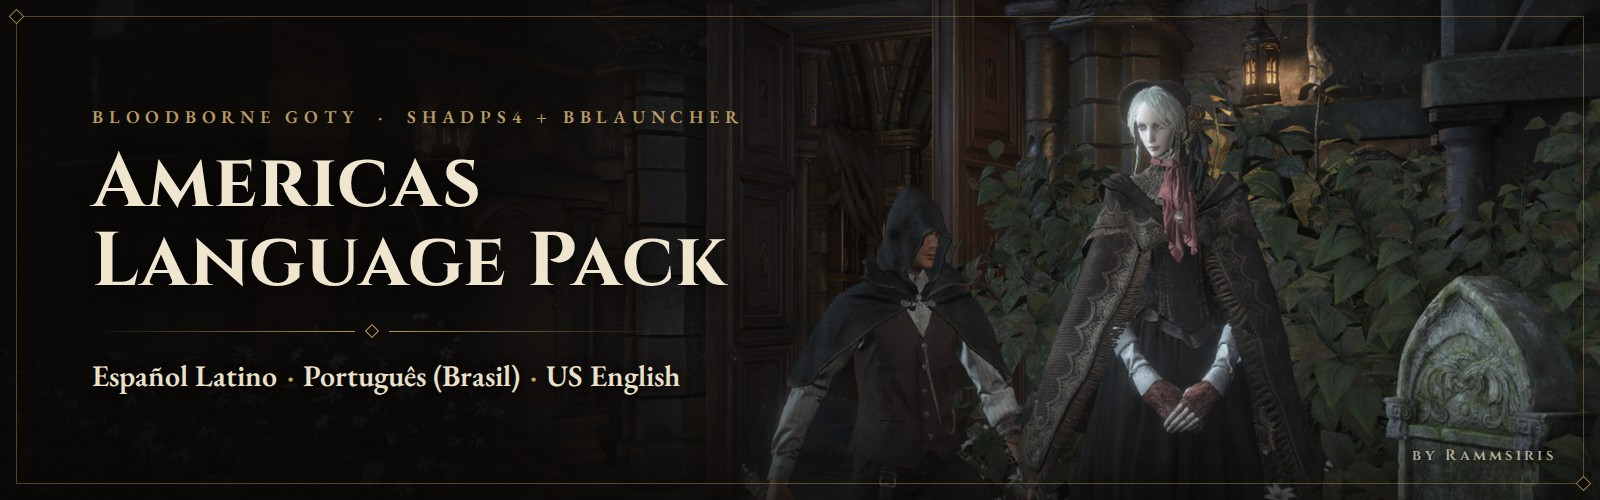
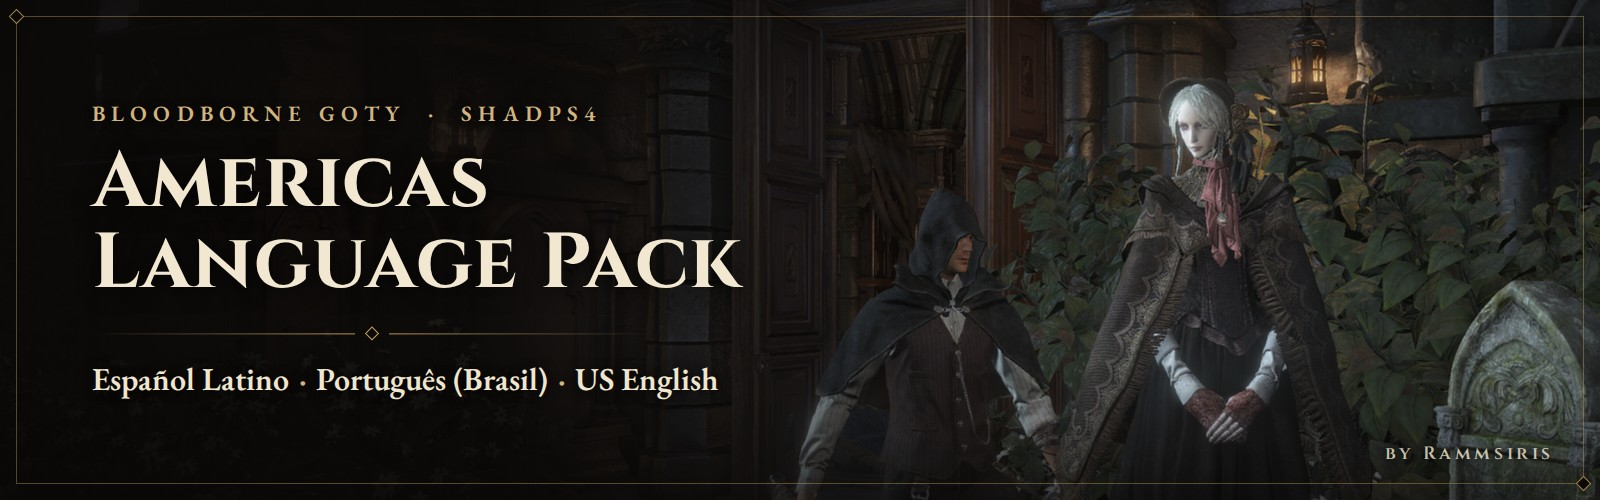
Add files via upload

diff --git a/README.md b/README.md
@@ -3,7 +3,7 @@
 </p>
 
 <p align="center">
-  <b>Bloodborne Game of the Year Edition</b> (EU, CUSA03173) on <b>shadPS4 + BBLauncher</b><br>
+  <b>Bloodborne GOTY</b> (EU, CUSA03173) &nbsp;·&nbsp; <b>shadPS4 + BBLauncher</b><br>
   Play in your language and keep online features: no <i>Unlock Game Region</i> patch needed.<br>
   Juega en tu idioma sin perder el online: no necesitas el parche <i>Unlock Game Region</i>.<br>
   Jogue com legendas e dublagem em português do Brasil sem perder o online.
@@ -17,161 +17,144 @@
   <a href="#english">English</a> &nbsp;·&nbsp; <a href="#español">Español</a> &nbsp;·&nbsp; <a href="../../releases">All versions / Todas las versiones</a> &nbsp;·&nbsp; <a href="https://www.nexusmods.com/bloodborne/mods/578">Nexus Mods</a>
 </p>
 
-<table align="center">
-  <tr>
-    <td align="center"><b>Español (América Latina)</b><br><sub>text and voices · texto y voces</sub></td>
-    <td align="center"><b>Português (Brasil)</b><br><sub>text and voices · texto e vozes</sub></td>
-  </tr>
+<p align="center">
+  <img src="media/showcase.jpg" alt="The game's Language menu set to Latin American Spanish, Brazilian Portuguese and US English, and a message from the online server in Latin American Spanish" width="100%">
+</p>
+
+<details>
+<summary>📸 <b>Full screenshots</b> · Capturas completas</summary>
+<br>
+<table>
   <tr>
     <td><img src="media/menu-es-latam.jpg" alt="Language menu in Latin American Spanish" width="380"></td>
     <td><img src="media/menu-pt-br.jpg" alt="Language menu in Brazilian Portuguese" width="380"></td>
-  </tr>
-  <tr>
-    <td align="center"><b>English (United States)</b><br><sub>text, with the UK English voices · texto, con las voces en inglés UK</sub></td>
-    <td align="center"><b>Online still works</b><br><sub>el online sigue funcionando</sub></td>
   </tr>
   <tr>
     <td><img src="media/menu-en-us.jpg" alt="Language menu in US English" width="380"></td>
     <td><img src="media/online-es-latam.jpg" alt="A message from another player, from the online server, in Latin American Spanish" width="380"></td>
   </tr>
 </table>
+</details>
 
 ## English
 
-The European Game of the Year Edition already contains the languages of the Americas, but its Language menu only lists the European ones. The usual fix, the **Unlock Game Region** patch, can't be used with online play (the Hunters Dream server: messages, bloodstains, specters).
+The European GOTY already has the languages of the Americas, but its Language menu only shows the European ones. This pack adds them to the game's own menu **without touching the region**, so online play keeps working.
 
-This pack leaves the region alone and adds them to the game's own Language menu:
+- 🌐 **Online keeps working:** no *Unlock Game Region* patch, so messages, bloodstains and specters stay on.
+- 🎙 **Text and voices** in Spanish (Latin America) and Portuguese (Brazil), **text** in US English.
+- 🎮 **Real options in the Language menu,** with the game's official names. English (UK) and the other European languages stay.
+- 📦 **No game files in the download:** the installer builds the mod from your own copy, and your game folder is never modified.
 
-| Language added | Text | Voices | Takes the place of |
-|---|:---:|:---:|---|
-| **Spanish (Latin America)** | yes | yes | Italian |
-| **Portuguese (Brazil)** | yes | yes | German |
-| **English (United States)** | yes | - | Danish |
-
-### Why this one
-
-- **Online keeps working:** the region isn't touched, so *Unlock Game Region* stays OFF.
-- **Real entries in the Language menu,** with the game's official names. Switch any time in OPTIONS > System > Language.
-- English (UK), French, Spanish (Spain), Portuguese (Portugal) and the other European languages stay available.
-- **No game files in the download:** a small installer builds the mod from your own copy in a few minutes.
-- Your game folder is never modified. Turn the mod on and off from BBLauncher's Mod Manager.
-- It also fixes two small mistakes in the official language names ("Pulir" instead of "Polaco" in Latin American Spanish, and "Brasil" in English).
-
-### Requirements
-
-- Windows 10 or 11
-- Bloodborne GOTY (EU, CUSA03173) dumped from your own copy, with update 1.09, as a regular folder (not .zar)
-- shadPS4 and BBLauncher (it also works with shadPS4 alone, see README.txt)
+**Requirements:** Windows 10/11 · Bloodborne GOTY EU (CUSA03173) v1.09 dumped from your own copy, as a folder (not .zar) · shadPS4 + BBLauncher
 
 ### Install
 
-1. Click **Download** above (or open [Releases](../../releases) and download `Americas-Language-Pack.zip`).
-2. Extract the zip and drag the **Americas Language Pack v1.0** folder into your BBLauncher folder (the one with BB_Launcher.exe), not into its Mods folder.
-3. Open that folder and double-click **INSTALL - Americas Language Pack.bat**. It finds your game by itself. Wait until it says DONE.
-4. BBLauncher > Mod Manager > under Inactive Mods select **Americas Language Pack** > Activate Mod.
-5. In the game: OPTIONS > System > Language > choose your language in Text and in Voice.
+1. Click **Download** above and extract the zip.
+2. Drag the **Americas Language Pack v1.0** folder into your BBLauncher folder (the one with BB_Launcher.exe), not into Mods.
+3. Open it and double-click **INSTALL - Americas Language Pack.bat** (keep the .ps1 next to it). Wait until it says **DONE** (or LISTO).
+4. BBLauncher > Mod Manager > Inactive Mods > **Americas Language Pack** > Activate Mod.
+5. In the game: OPTIONS > System > Language > pick your language in Text and in Voice.
 
 > [!IMPORTANT]
 > For online play keep the **Unlock Game Region** and **Disable HTTP Requests** patches OFF.
 
-> [!TIP]
-> Only double-click the .bat. The .ps1 next to it is the installer itself, so keep them together. When it says DONE you can delete the installer folder: the mod doesn't need it.
+<details>
+<summary><b>Uninstall</b></summary>
+<br>
 
-### Uninstall
+In the game, set Text and Voice back to "Default". Then BBLauncher > Mod Manager > Active Mods > Americas Language Pack > Deactivate Mod, and delete its folder from BBLauncher's Mods folder. Step by step in README.txt, section 8.
 
-In the game, set Text and Voice back to "Default". Then BBLauncher > Mod Manager > Active Mods > Americas Language Pack > Deactivate Mod, and delete its folder from BBLauncher's Mods folder. Step by step in README.txt (section 8).
+</details>
 
-### Compatibility
+<details>
+<summary><b>Compatibility and known limitations</b></summary>
+<br>
 
-Works with patches and mods that don't change the game's text, font or voice files (60 FPS, resolution, graphics...). It doesn't work together with other language or text mods: if BBLauncher shows "Mod conflict found", deactivate the other mod first.
-
-### Known limitations
-
-- Italian, German and Danish are replaced while the mod is active.
+- Works with patches and mods that don't change the game's text, font or voice files (60 FPS, resolution, graphics...).
+- It doesn't work with other language or text mods: if BBLauncher shows "Mod conflict found", deactivate the other mod first.
+- While the mod is active, Spanish (Latin America) takes the place of Italian, Portuguese (Brazil) of German, and English (United States) of Danish.
 - US English is text only: for Voice keep English (United Kingdom), it's the same dub.
 - "Default" doesn't pick the new languages: choose them yourself in Text and Voice.
-- The installer needs the game as a regular folder, not a .zar archive.
+- It also fixes two small mistakes in the official language names ("Pulir" instead of "Polaco" in Latin American Spanish, and "Brasil" in English).
 
-### Safety and antivirus
+</details>
+
+<details>
+<summary><b>Safety and antivirus</b></summary>
+<br>
 
 - **Official pages:** this GitHub page and the [Nexus Mods page](https://www.nexusmods.com/bloodborne/mods/578). Both have the same file. Don't download it from links posted by other people.
 - Every release lists the zip's SHA-256 and its VirusTotal scan.
-- The installer is plain-text PowerShell that anyone can read ([read it here](Americas%20Language%20Pack/Americas_Language_Pack.ps1)). It only reads your game files and BBLauncher's settings, and writes the mod folder, with no internet connections and no changes to Windows.
+- The installer is plain-text PowerShell that anyone can read ([read it here](Americas%20Language%20Pack/Americas_Language_Pack.ps1)). It only reads your game files and BBLauncher's settings and writes the mod folder: no internet connections, no changes to Windows.
 - Some antivirus programs (Bitdefender, for example) may flag it with a generic heuristic detection such as "Heur...Boxter", a common false positive for installers written as scripts. You don't need to turn off your protection: add an exception for the installer folder (README.txt, section 10).
 
-README.txt (inside the zip, English and Spanish) covers every step, installing without BBLauncher, troubleshooting and FAQ.
+</details>
+
+📖 README.txt (inside the zip, English and Spanish) covers every step, installing without BBLauncher, troubleshooting and FAQ.
 
 ## Español
 
-La Game of the Year Edition europea ya trae los idiomas de América, pero su menú Idioma solo muestra los europeos. El arreglo de siempre, el parche **Unlock Game Region**, no se puede usar con el online (el servidor Hunters Dream: mensajes, manchas de sangre, espectros).
+La GOTY europea ya trae los idiomas de América, pero su menú Idioma solo muestra los europeos. Este pack los agrega al menú del propio juego **sin tocar la región**, así que el online sigue funcionando.
 
-Este pack no toca la región y los agrega al menú Idioma del propio juego:
+- 🌐 **El online sigue funcionando:** sin el parche *Unlock Game Region*, así que los mensajes, las manchas de sangre y los espectros siguen ahí.
+- 🎙 **Texto y voces** en español (América Latina) y portugués (Brasil); **texto** en inglés de EE. UU.
+- 🎮 **Opciones reales en el menú Idioma,** con los nombres oficiales del juego. El inglés (Reino Unido) y los demás idiomas europeos se quedan.
+- 📦 **La descarga no trae archivos del juego:** el instalador crea el mod a partir de tu propia copia, y la carpeta de tu juego nunca se modifica.
 
-| Idioma que agrega | Texto | Voces | Ocupa el lugar de |
-|---|:---:|:---:|---|
-| **Español (América Latina)** | sí | sí | italiano |
-| **Portugués (Brasil)** | sí | sí | alemán |
-| **Inglés (Estados Unidos)** | sí | - | danés |
-
-### Por qué este
-
-- **El online sigue funcionando:** no toca la región, así que *Unlock Game Region* se queda APAGADO.
-- **Opciones reales en el menú Idioma,** con los nombres oficiales del juego. Cámbialo cuando quieras en OPTIONS > Sistema > Idioma.
-- Inglés (Reino Unido), francés, español (España), portugués (Portugal) y los demás idiomas europeos siguen disponibles.
-- **La descarga no trae archivos del juego:** un instalador chiquito crea el mod a partir de tu propia copia en unos minutos.
-- La carpeta de tu juego nunca se modifica. Prendes y apagas el mod desde el Mod Manager de BBLauncher.
-- También corrige dos errores en los nombres oficiales de los idiomas ("Pulir" en lugar de "Polaco" en el texto latino, y "Brasil" en inglés).
-
-### Requisitos
-
-- Windows 10 u 11
-- Bloodborne GOTY (EU, CUSA03173) dumpeado de tu propia copia, con el update 1.09, como carpeta normal (no .zar)
-- shadPS4 y BBLauncher (también funciona solo con shadPS4, ve el README.txt)
+**Requisitos:** Windows 10/11 · Bloodborne GOTY EU (CUSA03173) v1.09 dumpeado de tu propia copia, como carpeta (no .zar) · shadPS4 + BBLauncher
 
 ### Instalación
 
-1. Dale clic a **Descargar** arriba (o abre [Releases](../../releases) y descarga `Americas-Language-Pack.zip`).
-2. Extrae el zip y arrastra la carpeta **Americas Language Pack v1.0** a tu carpeta de BBLauncher (la que tiene BB_Launcher.exe), no a su carpeta Mods.
-3. Abre esa carpeta y dale doble clic a **INSTALL - Americas Language Pack.bat**. El instalador encuentra tu juego solo. Espera a que diga LISTO.
-4. BBLauncher > Mod Manager > en Inactive Mods elige **Americas Language Pack** > Activate Mod.
+1. Dale clic a **Descargar** arriba y extrae el zip.
+2. Arrastra la carpeta **Americas Language Pack v1.0** a tu carpeta de BBLauncher (la que tiene BB_Launcher.exe), no a Mods.
+3. Ábrela y dale doble clic a **INSTALL - Americas Language Pack.bat** (deja el .ps1 junto). Espera a que diga **LISTO** (o DONE).
+4. BBLauncher > Mod Manager > Inactive Mods > **Americas Language Pack** > Activate Mod.
 5. En el juego: OPTIONS > Sistema > Idioma > elige tu idioma en Texto y en Voz.
 
 > [!IMPORTANT]
 > Para el online deja APAGADOS los parches **Unlock Game Region** y **Disable HTTP Requests**.
 
-> [!TIP]
-> Dale doble clic solo al .bat. El .ps1 que está junto es el instalador en sí, así que déjalos juntos. Cuando diga LISTO puedes borrar la carpeta del instalador: el mod no la necesita.
+<details>
+<summary><b>Desinstalar</b></summary>
+<br>
 
-### Desinstalar
+En el juego regresa Texto y Voz a "Predeterminado". Luego BBLauncher > Mod Manager > Active Mods > Americas Language Pack > Deactivate Mod, y borra su carpeta de la carpeta Mods de BBLauncher. Paso a paso en el README.txt, sección 8.
 
-En el juego regresa Texto y Voz a "Predeterminado". Luego BBLauncher > Mod Manager > Active Mods > Americas Language Pack > Deactivate Mod, y borra su carpeta de la carpeta Mods de BBLauncher. Paso a paso en el README.txt (sección 8).
+</details>
 
-### Compatibilidad
+<details>
+<summary><b>Compatibilidad y limitaciones conocidas</b></summary>
+<br>
 
-Funciona con parches y mods que no cambien los archivos de texto, fuentes o voces del juego (60 FPS, resolución, gráficos...). No es compatible con otros mods de idioma o de texto: si BBLauncher dice "Mod conflict found", desactiva primero el otro mod.
-
-### Limitaciones conocidas
-
-- Mientras el mod está activo, el italiano, el alemán y el danés se reemplazan.
+- Funciona con parches y mods que no cambien los archivos de texto, fuentes o voces del juego (60 FPS, resolución, gráficos...).
+- No es compatible con otros mods de idioma o de texto: si BBLauncher dice "Mod conflict found", desactiva primero el otro mod.
+- Mientras el mod está activo, el español (América Latina) ocupa el lugar del italiano, el portugués (Brasil) el del alemán y el inglés (Estados Unidos) el del danés.
 - Inglés (Estados Unidos) es solo texto: en Voz deja Inglés (Reino Unido), es el mismo doblaje.
 - "Predeterminado" no elige los idiomas nuevos: elígelos tú en Texto y en Voz.
-- El instalador necesita el juego como carpeta normal, no en archivo .zar.
+- También corrige dos errores en los nombres oficiales de los idiomas ("Pulir" en lugar de "Polaco" en el texto latino, y "Brasil" en inglés).
 
-### Seguridad y antivirus
+</details>
+
+<details>
+<summary><b>Seguridad y antivirus</b></summary>
+<br>
 
 - **Páginas oficiales:** esta página de GitHub y la [página de Nexus Mods](https://www.nexusmods.com/bloodborne/mods/578). Las dos tienen el mismo archivo. No lo descargues de links que publiquen otras personas.
 - Cada versión indica el SHA-256 del zip y su análisis de VirusTotal.
-- El instalador es PowerShell en texto plano que cualquiera puede leer ([léelo aquí](Americas%20Language%20Pack/Americas_Language_Pack.ps1)). Solo lee los archivos de tu juego y la configuración de BBLauncher, y escribe la carpeta del mod, sin conectarse a internet y sin cambiar nada de Windows.
+- El instalador es PowerShell en texto plano que cualquiera puede leer ([léelo aquí](Americas%20Language%20Pack/Americas_Language_Pack.ps1)). Solo lee los archivos de tu juego y la configuración de BBLauncher, y escribe la carpeta del mod: no se conecta a internet ni cambia nada de Windows.
 - Algunos antivirus (Bitdefender, por ejemplo) pueden marcarlo con una detección heurística genérica como "Heur...Boxter", un falso positivo común en instaladores hechos como script. No necesitas apagar tu protección: agrega una excepción para la carpeta del instalador (README.txt, sección 10).
 
-El README.txt (dentro del zip, en inglés y español) trae cada paso, cómo instalarlo sin BBLauncher, solución de problemas y preguntas frecuentes.
+</details>
 
-## Credits / Créditos
+📖 El README.txt (dentro del zip, en inglés y español) trae cada paso, cómo instalarlo sin BBLauncher, solución de problemas y preguntas frecuentes.
 
-**Created by Rammsiris - Game Developer**
+---
 
-Thanks to the shadPS4 team and the BBLauncher developer. / Gracias al equipo de shadPS4 y al desarrollador de BBLauncher.
+<p align="center">
+  <b>Created by Rammsiris - Game Developer</b><br>
+  <sub>Thanks to the shadPS4 team and the BBLauncher developer · Gracias al equipo de shadPS4 y al desarrollador de BBLauncher</sub>
+</p>
 
-<sub>Unofficial fan-made mod, not affiliated with or endorsed by Sony Interactive Entertainment, FromSoftware, shadPS4 or BBLauncher. Bloodborne © Sony Interactive Entertainment. This mod includes no game files. Provided as is, without warranty. Please don't re-upload it to other sites: share the link to this page or to its Nexus Mods page instead.</sub>
+<p align="center"><sub>Unofficial fan-made mod, not affiliated with or endorsed by Sony Interactive Entertainment, FromSoftware, shadPS4 or BBLauncher. Bloodborne © Sony Interactive Entertainment. This mod includes no game files. Provided as is, without warranty. Please don't re-upload it to other sites: share the link to this page or to its Nexus Mods page instead.</sub></p>
 
-<sub>Mod no oficial hecho por fans, sin afiliación ni aval de Sony Interactive Entertainment, FromSoftware, shadPS4 ni BBLauncher. Bloodborne © Sony Interactive Entertainment. Este mod no incluye archivos del juego. Se ofrece tal cual, sin garantía. Por favor no lo resubas a otros sitios: comparte el link de esta página o de su página en Nexus Mods.</sub>
+<p align="center"><sub>Mod no oficial hecho por fans, sin afiliación ni aval de Sony Interactive Entertainment, FromSoftware, shadPS4 ni BBLauncher. Bloodborne © Sony Interactive Entertainment. Este mod no incluye archivos del juego. Se ofrece tal cual, sin garantía. Por favor no lo resubas a otros sitios: comparte el link de esta página o de su página en Nexus Mods.</sub></p>
